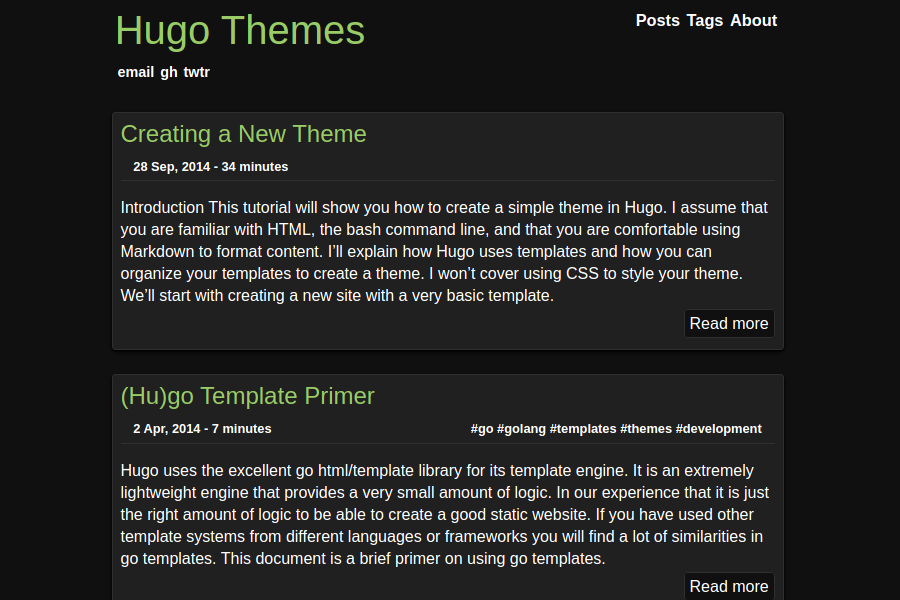
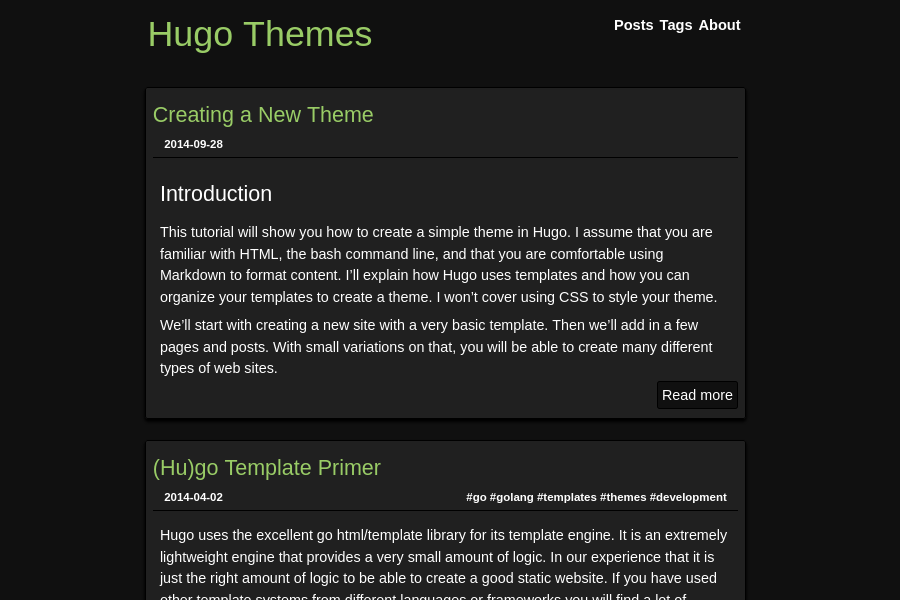
refactor: simplify design
- remove reading time
- remove social links from the top
- change date format

Changed region(s): [[0.1244, 0.18, 0.8711, 1.0], [0.1244, 0.0, 0.4044, 0.15], [0.6844, 0.03, 0.8711, 0.06]]

diff --git a/layouts/_default/summary.html b/layouts/_default/summary.html
@@ -4,7 +4,7 @@
     <h2 class="title"> <a href='{{ .Permalink }}'> {{ .Title }}</a> </h2>
     <div class="meta">
       <div class="date">
-      {{ .Date.Format "2 Jan, 2006" }} - {{ .ReadingTime }} minutes
+      {{ .Date.Format "2006-01-02" }}
       </div>
       {{ partial "tags.html" . }}
     </div>

diff --git a/layouts/_default/li.html b/layouts/_default/li.html
@@ -2,7 +2,7 @@
 
     <a href="{{ .Permalink }}">
       <div class="post-list"> <h3 class="title"> {{ .Title }} </h3>
-      <div class="date"> {{ .Date.Format "2 Jan, 2006" }} </div>
+      <div class="date"> {{ .Date.Format "2006-01-02" }} </div>
 
       </div>
     </a>

diff --git a/layouts/partials/header.html b/layouts/partials/header.html
@@ -21,9 +21,6 @@
 
   </nav>
 
-  {{ partial "social-links.html" . }}
-
 </div>
-
 
 </header>

diff --git a/CHANGELOG.md b/CHANGELOG.md
@@ -8,6 +8,11 @@
   * [Mastodon](https://joinmastodon.org/) [verification](https://joinmastodon.org/verification)
   * [Fediverse creator tag](https://blog.joinmastodon.org/2024/07/highlighting-journalism-on-mastodon/)
 
+### Changed
+  * Simplify design
+    * Remove social links from the top and reading time
+    * change date format
+
 ## [1.3.0] - 2024-09-13
 
 ### Changed
